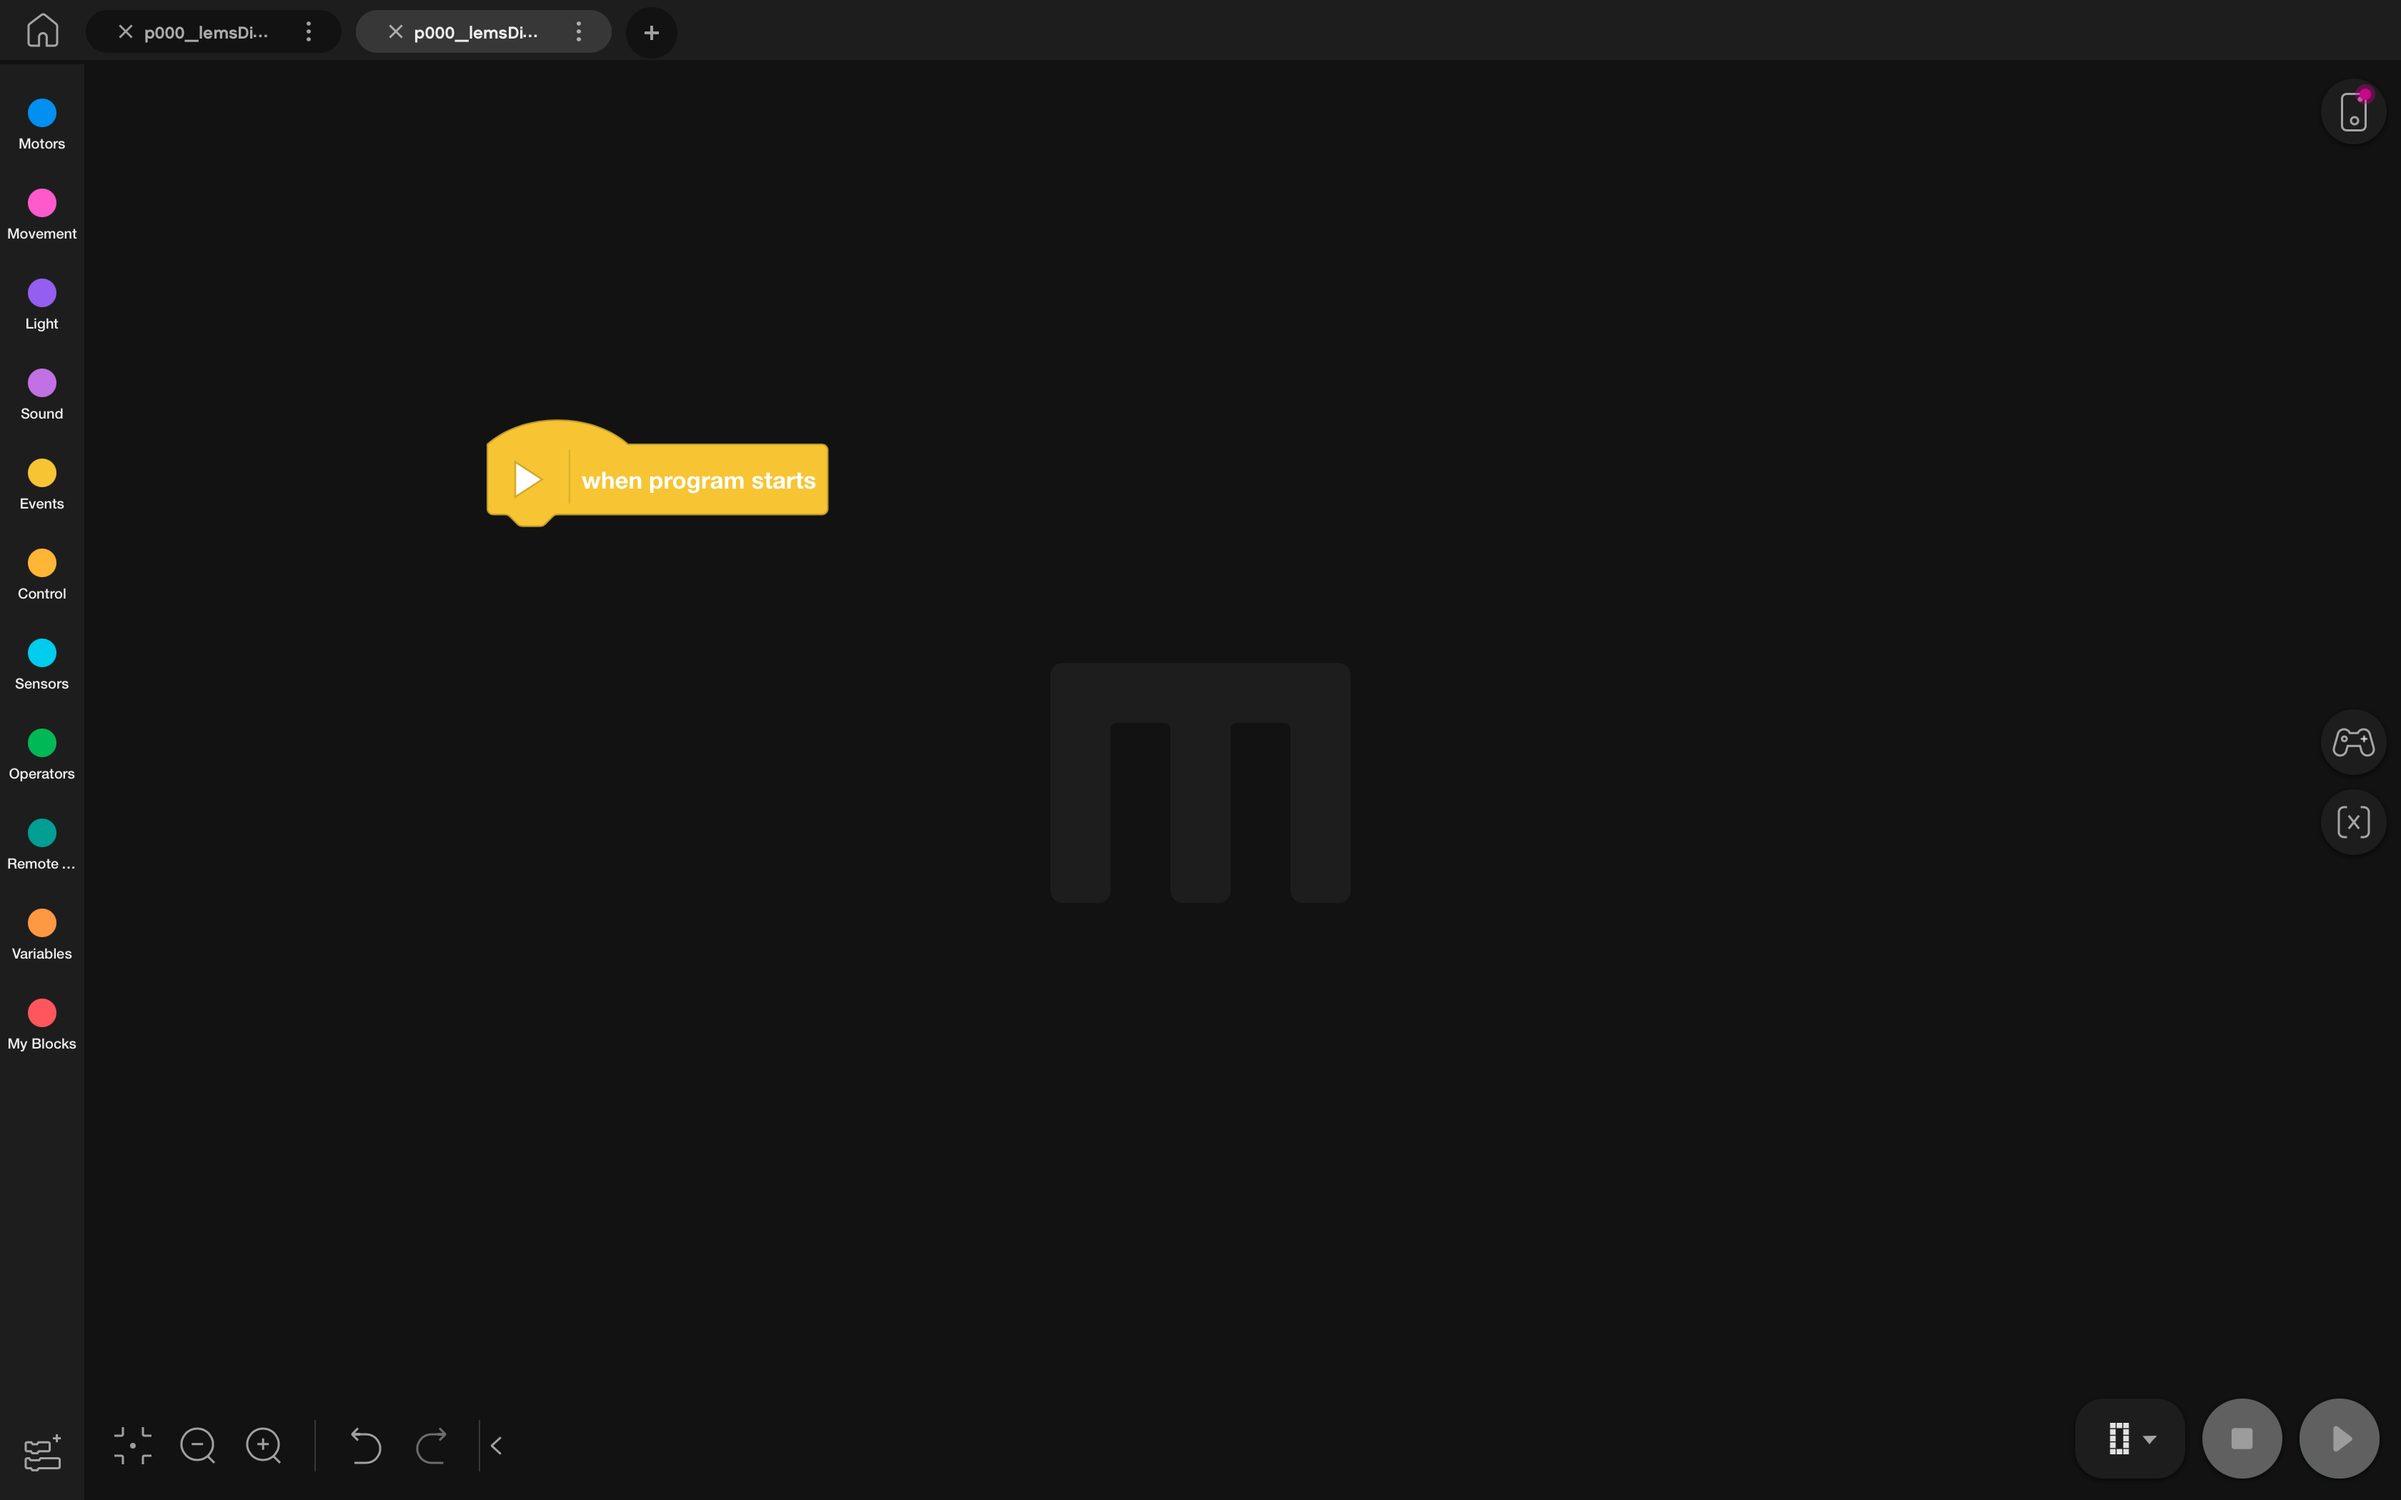
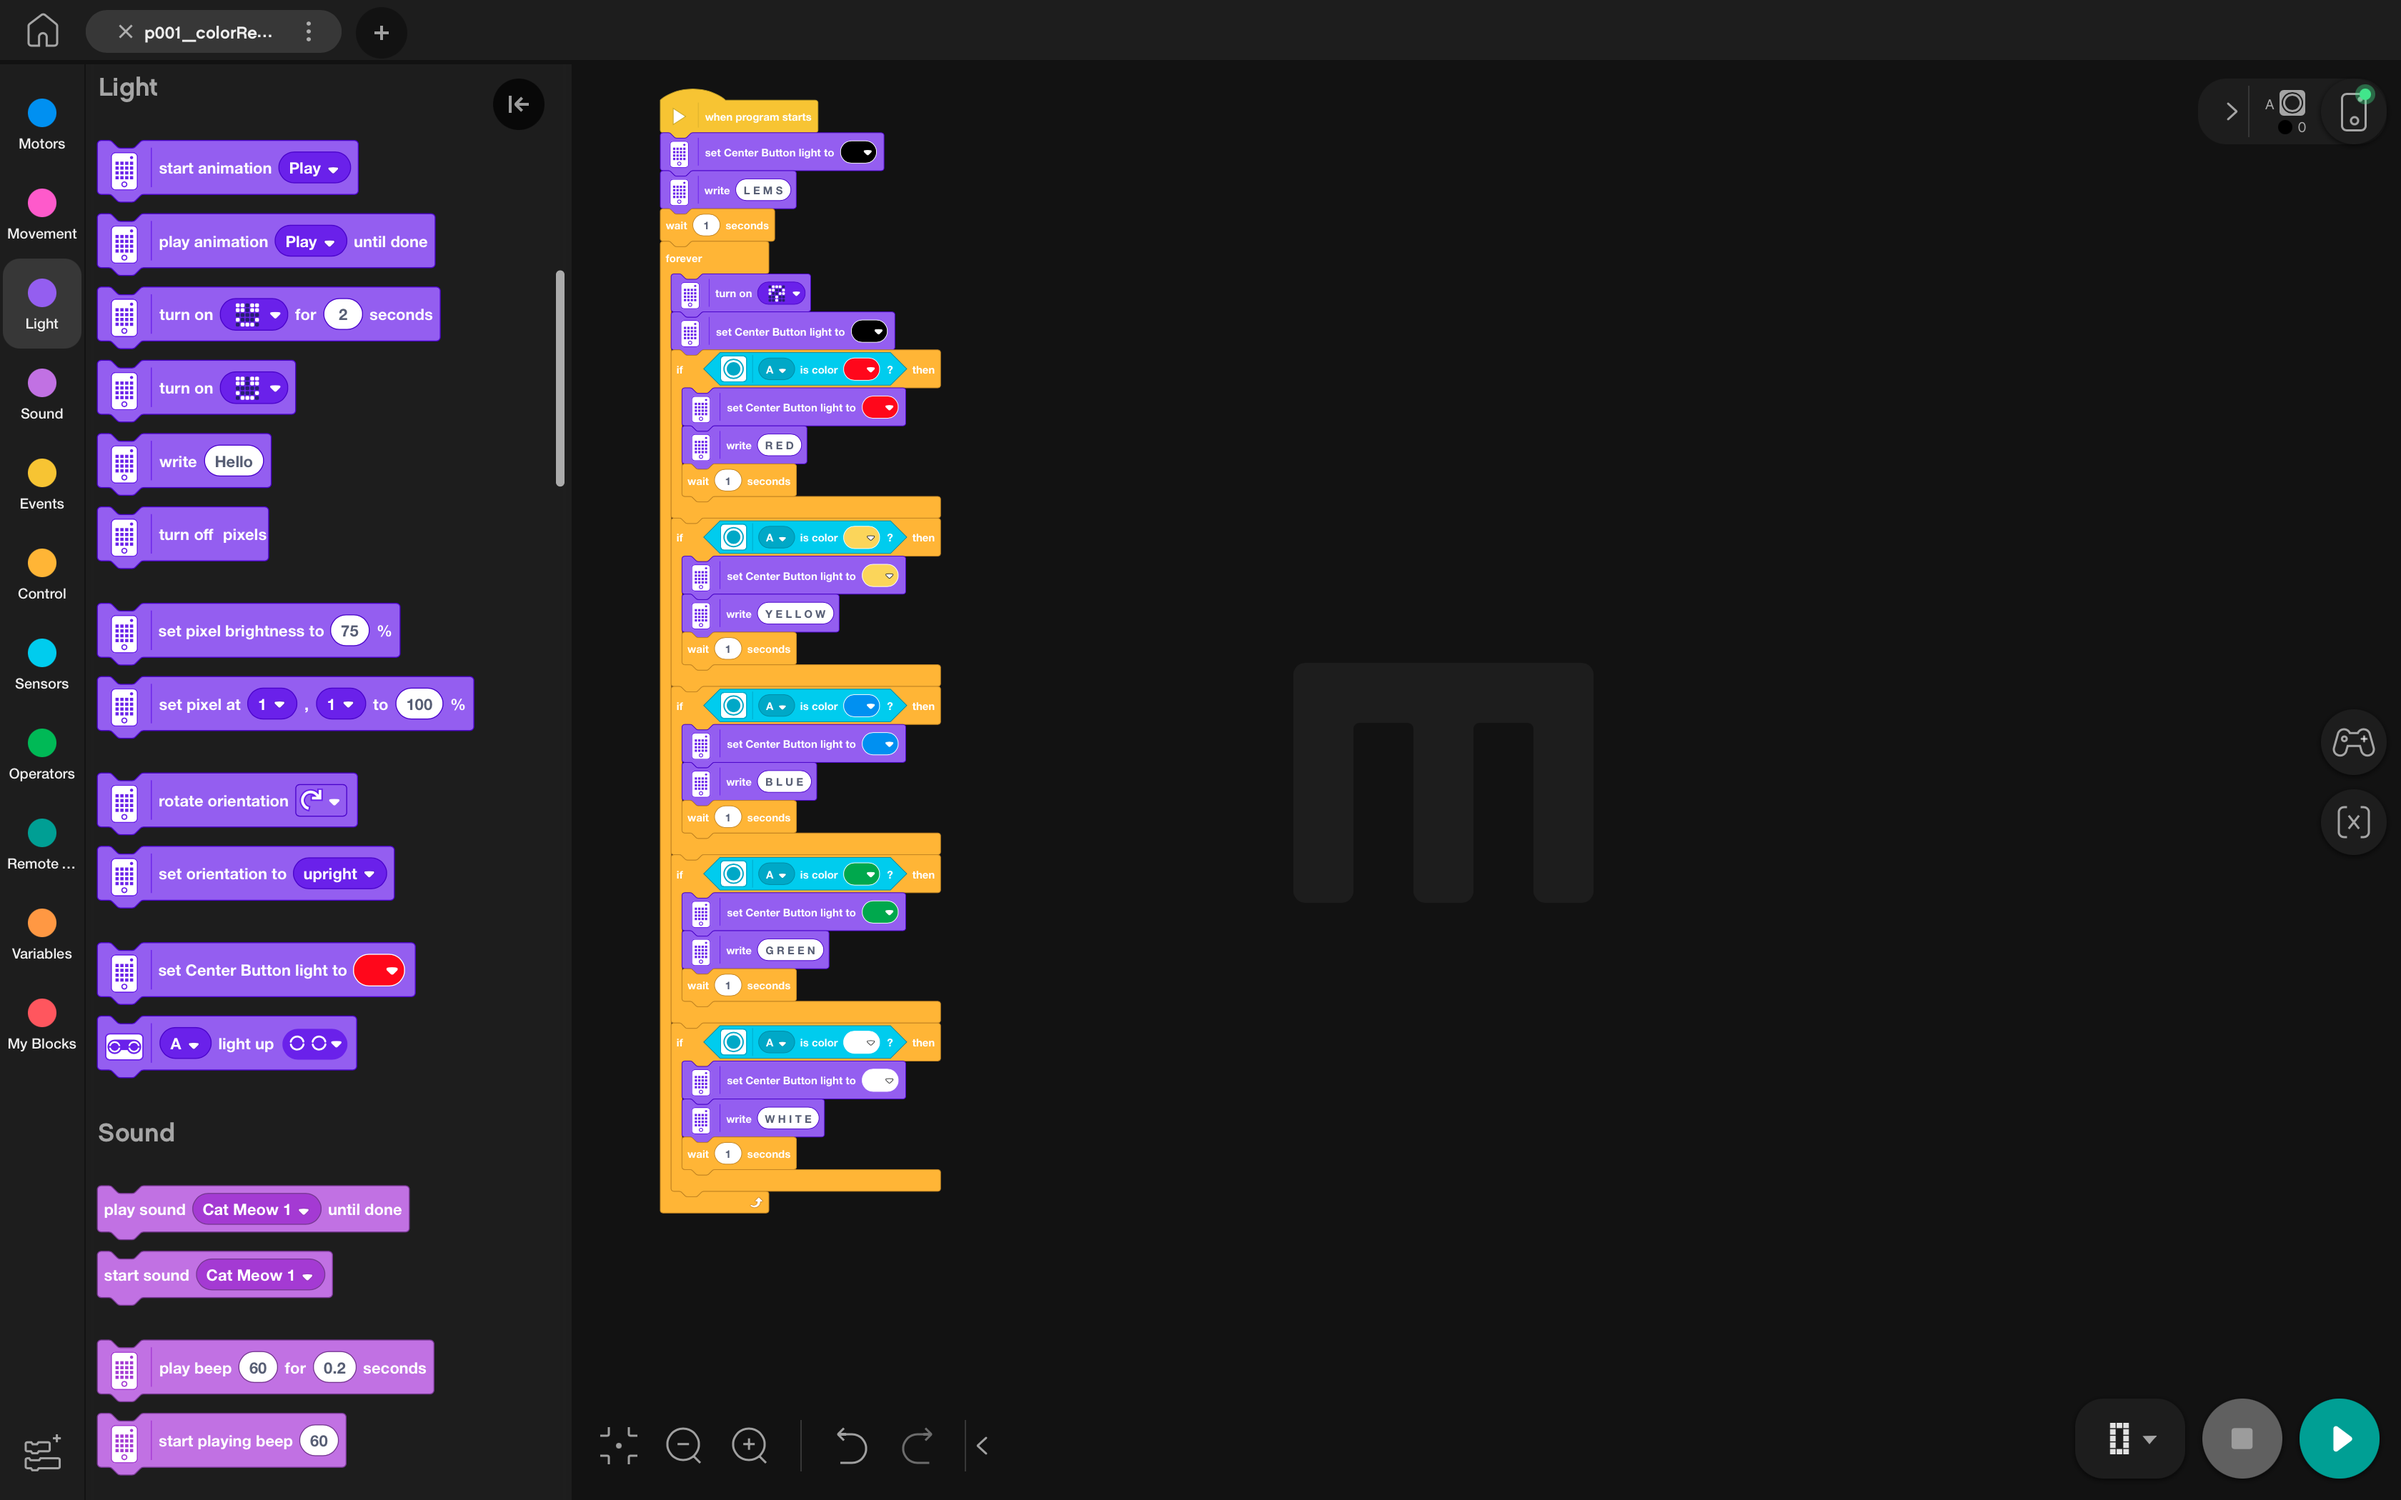
modify : function test done.

diff --git a/python/p001_colorReading_py.py b/python/p001_colorReading_py.py
@@ -10,3 +10,30 @@ hub = MSHub()
 
 # Write your program here.
 hub.speaker.beep()
+
+hub.status_light.off()
+hub.light_matrix.write('L E M S')
+wait_for_seconds(1)
+
+while 1:
+    hub.light_matrix.set_pixel(0, 1)
+    hub.light_matrix.set_pixel(0, 2)
+    hub.light_matrix.set_pixel(1, 0)
+    hub.light_matrix.set_pixel(1, 1)
+    hub.light_matrix.set_pixel(2, 0)
+    hub.light_matrix.set_pixel(3, 0)
+    hub.light_matrix.set_pixel(4, 1)
+    hub.light_matrix.set_pixel(4, 2)
+    hub.light_matrix.set_pixel(3, 2)
+    hub.light_matrix.set_pixel(2, 3)
+    hub.light_matrix.set_pixel(2, 4)
+    hub.status_light.off()
+
+    paper_scanner = ColorSensor('A')
+
+    color = paper_scanner.get_color()
+
+    if color == 'red' or color == 'yellow' or color == 'green' or color == 'blue' or color == 'white':
+        hub.status_light.on(color)
+        hub.light_matrix.write(color.upper())
+        wait_for_seconds(1)
